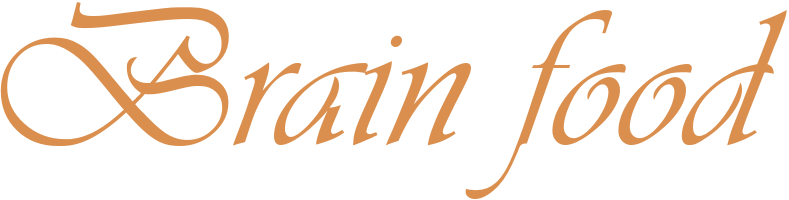
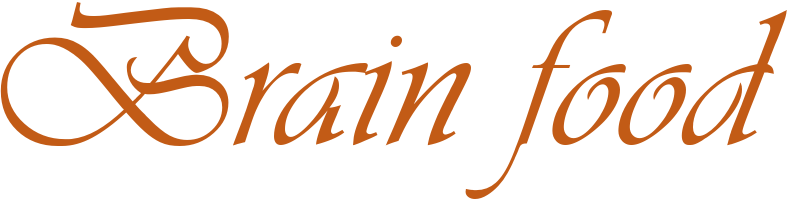
update orange to be darker

diff --git a/_sass/variables.scss b/_sass/variables.scss
@@ -1,5 +1,5 @@
 $brand-color: #ffffff;
-$secondary-brand-color: #DA8F4E;
+$secondary-brand-color: #C25B16; /*#DA8F4E;*/ /* burnt orange */
 $middle-gradient-color: mix($brand-color, $secondary-brand-color, 95%);
 
 // Breakpoints

diff --git a/_sass/footer.scss b/_sass/footer.scss
@@ -71,7 +71,7 @@ footer {
 	padding: 50px 0 50px 0;
 	font-size: 1.1em;
 	position: relative;
-	background: #DA8F4E;
+	background: #C25B16; /*#DA8F4E;*/ /* burnt orange */
 	color: #fff;
 
 	.copyright {

diff --git a/_sass/elements.scss b/_sass/elements.scss
@@ -1,5 +1,5 @@
 html {
-	background: #DA8F4E;
+	background: #C25B16; /*#DA8F4E;*/ /* burnt orange*/
 }
 
 html, body {
